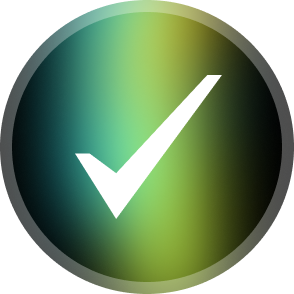
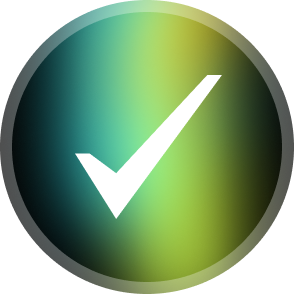
fix: update DemoAccess, PrivacyPolicy, MarketingConsent layouts per Figma

Changed region(s): [[0.551, 0.0, 0.9184, 0.9796]]

diff --git a/src/screens/marketing-consent/MarketingConsentScreen.tsx b/src/screens/marketing-consent/MarketingConsentScreen.tsx
@@ -127,10 +127,9 @@ export const MarketingConsentScreen: React.FC = () => {
         {/* Главная подложка (белая) */}
         <div style={{
           position: 'absolute',
-          left: 'calc(50% + 1px)',
+          left: '88px',
           top: '560px',
-          transform: 'translateX(-50%)',
-          width: '888px',
+          width: '1004px',
           height: '1482px',
           backdropFilter: 'blur(50px)',
           background: 'rgba(255, 255, 255, 0.1)',
@@ -141,10 +140,10 @@ export const MarketingConsentScreen: React.FC = () => {
         {/* Карточка с текстом (черная подложка + скролл) */}
         <div style={{
           position: 'absolute',
-          left: '198px',
-          top: '608px',
-          width: '784px',
-          height: '1384px',
+          left: '144px',
+          top: '613px',
+          width: '892px',
+          height: '1373px',
         }}>
           {/* Черная подложка */}
           <div style={{
@@ -159,7 +158,7 @@ export const MarketingConsentScreen: React.FC = () => {
             {/* Скроллируемый контейнер с текстом */}
             <div style={{
               position: 'absolute',
-              inset: '6.16% 3.83% 6.75% 3.7%',
+              inset: '2.15% 3.83% 10.75% 3.7%',
               overflowY: 'auto',
               overflowX: 'hidden',
             }}>

diff --git a/src/screens/privacy-policy/PrivacyPolicyScreen.tsx b/src/screens/privacy-policy/PrivacyPolicyScreen.tsx
@@ -128,10 +128,9 @@ export const PrivacyPolicyScreen: React.FC = () => {
         {/* Главная подложка (белая) */}
         <div style={{
           position: 'absolute',
-          left: 'calc(50% + 1px)',
+          left: '88px',
           top: '560px',
-          transform: 'translateX(-50%)',
-          width: '888px',
+          width: '1004px',
           height: '1482px',
           backdropFilter: 'blur(50px)',
           background: 'rgba(255, 255, 255, 0.1)',
@@ -142,10 +141,10 @@ export const PrivacyPolicyScreen: React.FC = () => {
         {/* Карточка с текстом (черная подложка + скролл) */}
         <div style={{
           position: 'absolute',
-          left: '198px',
-          top: '608px',
-          width: '784px',
-          height: '1384px',
+          left: '144px',
+          top: '613px',
+          width: '892px',
+          height: '1373px',
         }}>
           {/* Черная подложка */}
           <div style={{
@@ -160,7 +159,7 @@ export const PrivacyPolicyScreen: React.FC = () => {
             {/* Скроллируемый контейнер с текстом */}
             <div style={{
               position: 'absolute',
-              inset: '6.16% 3.83% 6.75% 3.7%',
+              inset: '2.15% 3.83% 10.75% 3.7%',
               overflowY: 'auto',
               overflowX: 'hidden',
             }}>
